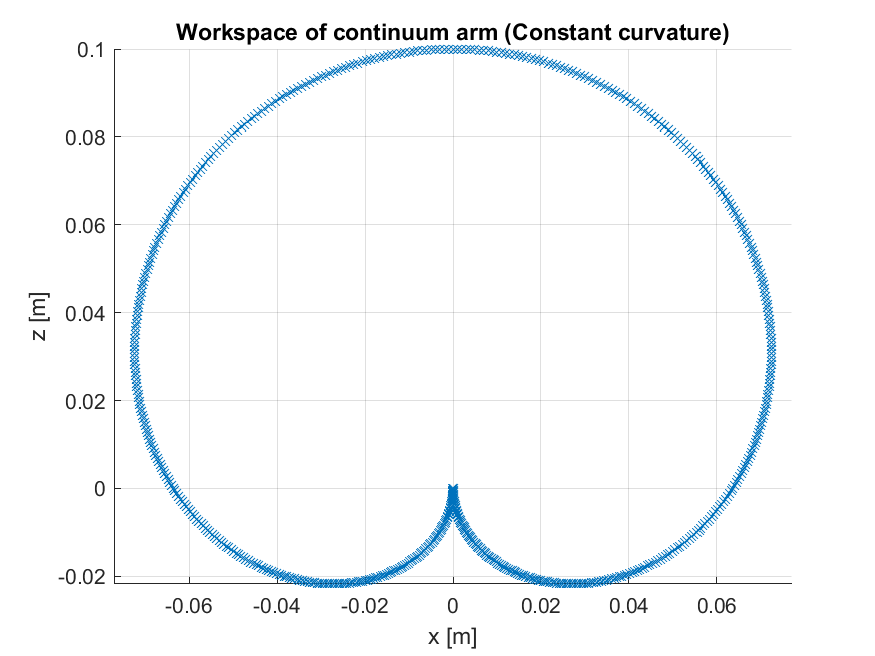
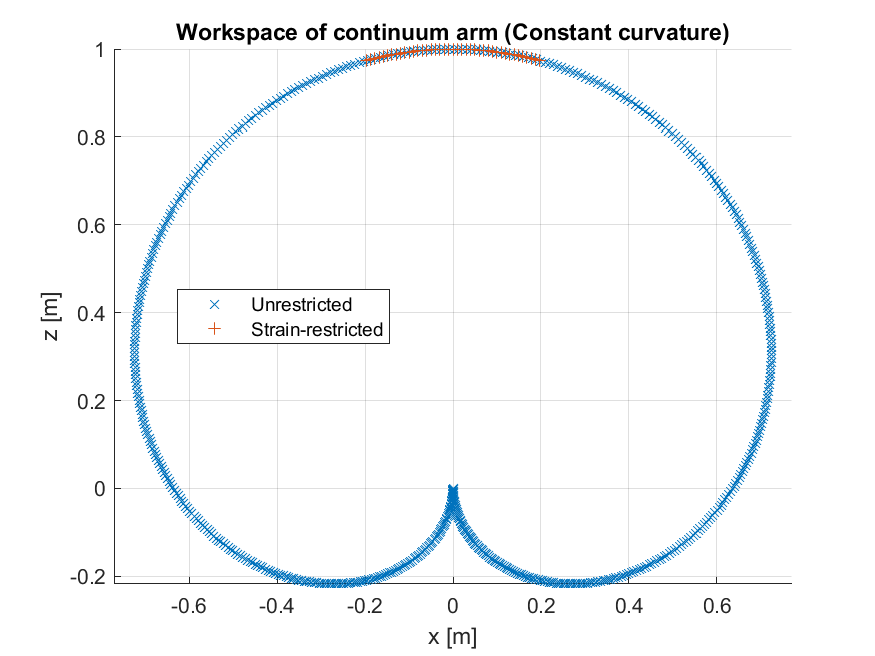
simple simulation code written

diff --git a/Codes/model_plots.m b/Codes/model_plots.m
@@ -1,11 +1,11 @@
 clear
 clc
 %% Parameters
-l_nf = 0.1;    % 0.1m
-d = 0.005;
+l_nf = 1;    % 1m
+d = 0.05;
 
 %% Unguided(circular arc) vs guided(piecewise linear segments) sma wires
-beta = deg2rad(90);    % target angle
+beta = deg2rad(180);    % target angle
 l_1 = l_nf - d*beta;
 angle_arr = [];
 lin_sma_arr = [];
@@ -50,7 +50,7 @@ title("Relation between l_1^l and l_1(Circular arc) with regards to num of space
 lgd = legend('sma line', 'sma arc', '1% error', '0.2% error');
 lgd.Location = 'southeast';
 hold off 
-saveas(gcf, '../Images/linear_circular_length_diff.png')
+saveas(gcf, '../Images/linear_circular_length_diff_180deg.png')
 
 % figure(2); hold on
 % plot(num_spacers, error_line, num_spacers, zero_line,...
@@ -73,28 +73,43 @@ ylabel("Angle of section [deg]")
 title("Relation between target angle and actual angle with regards to num of spacers")
 legend('sma line', 'sma arc', '1% error', '0.2% error')
 hold off 
-saveas(gcf, '../Images/linear_circular_angle_diff.png')
+saveas(gcf, '../Images/linear_circular_angle_diff_180deg.png')
 
 %% Workspace plot
+l_nf = 1;
+d = 0.05;
+num_spacers = 100;
 points_arr = [];
-for l_1 = 0.0686:0.0001:0.1314   % Corresponds to +2pi and -2pi
+points_arr_restricted = [];
+l_neg360 = IKineSMA(-2*pi, l_nf, d, num_spacers);
+l_pos360 = IKineSMA(2*pi, l_nf, d, num_spacers);
+l_1_neg360 = l_neg360(1);
+l_1_pos360 = l_pos360(1);
+for l_1 = l_1_pos360:0.001:l_1_neg360   % Corresponds to +2pi and -2pi
     T = FKineSMA(l_1, d, l_nf);
     points_arr = [points_arr; [T(1, 4), T(3, 4)]];
 end
+for l_1 = (l_nf-(0.02*l_nf)):0.001:(l_nf+(0.02*l_nf))   % Corresponds to 2% strain
+    T = FKineSMA(l_1, d, l_nf);
+    points_arr_restricted = [points_arr_restricted; [T(1, 4), T(3, 4)]];
+end
 figure(4); hold on
 plot(points_arr(:, 1), points_arr(:, 2), 'x')
+plot(points_arr_restricted(:, 1), points_arr_restricted(:, 2), '+')
 grid on
 axis equal
 xlabel("x [m]")
 ylabel("z [m]")
 title("Workspace of continuum arm (Constant curvature)")
+lgd = legend('Unrestricted', 'Strain-restricted');
+lgd.Location = 'best';
 hold off
 saveas(gcf, '../Images/workspace.png')
 
 %% Curve fitting to derive equation
 
-l_nf = 0.1;
-d = 0.005;
+l_nf = 1;
+d = 0.05;
 n = 10;
 
 alpha_list = [];

diff --git a/Codes/homogeneousTransformMatrix.m b/Codes/homogeneousTransformMatrix.m
@@ -7,15 +7,23 @@ function T = homogeneousTransformMatrix(s, alpha, length)
 theta = s * alpha;
 
 if alpha == 0
-    T = [1, 0, 0, 0; ...
-         0, 1, 0, s * length; ...
-         0, 0, 1, 0; ...
-         0, 0, 0, 1];
+    transform_mat = [1, 0, 0, 0; ...
+                     0, 1, 0, 0; ...
+                     0, 0, 1, s * length; ...
+                     0, 0, 0, 1];
 else
-    T = [  cos(theta),  sin(theta),   0,   length * ((1 - cos(theta))/alpha); ...
-          -sin(theta),  cos(theta),   0,   length * (sin(theta)/alpha)      ; ...
-           0,           0,            1,   0                                ; ...
-           0,           0,            0,   1                                ];
+    transform_mat = [  cos(theta),  0,   -sin(theta),   length * ((1 - cos(theta))/alpha); ...
+                       0,           1,    0,            0                                ; ...
+                       sin(theta),  0,    cos(theta),   length * sin(theta)/alpha        ; ...
+                       0,           0,    0,            1                                ];
 end
 
+p_x = transform_mat(1, 4);
+p_z = transform_mat(3, 4);
+
+% Create a struct array
+field1 = 'point_coord'; value1 = [p_x p_z];
+field2 = 'alpha'; value2 = theta;
+field3 = 'transform_mat'; value3 = transform_mat;
+T = struct(field1, value1, field2, value2, field3, value3);
 end

diff --git a/Codes/FKineSMA.m b/Codes/FKineSMA.m
@@ -5,5 +5,17 @@
 % continuum module
 function T = FKineSMA(sma_length, d, l_nf)
 alpha = (l_nf - sma_length)/d;
-T = CCSegment(alpha, l_nf);
+transform_mat = CCSegment(alpha, l_nf);
+
+p_x = transform_mat(1, 4);
+p_z = transform_mat(3, 4);
+rotation_mat = transform_mat(1:3, 1:3);
+eulZYX = rotm2eul(rotation_mat);
+alpha = eulZYX(2);
+
+% Create struct array
+field1 = 'tip_position'; value1 = [p_x p_z];
+field2 = 'alpha'; value2 = alpha;
+field3 = 'transform_mat'; value3 = transform_mat;
+T = struct(field1, value1, field2, value2, field3, value3);
 end
